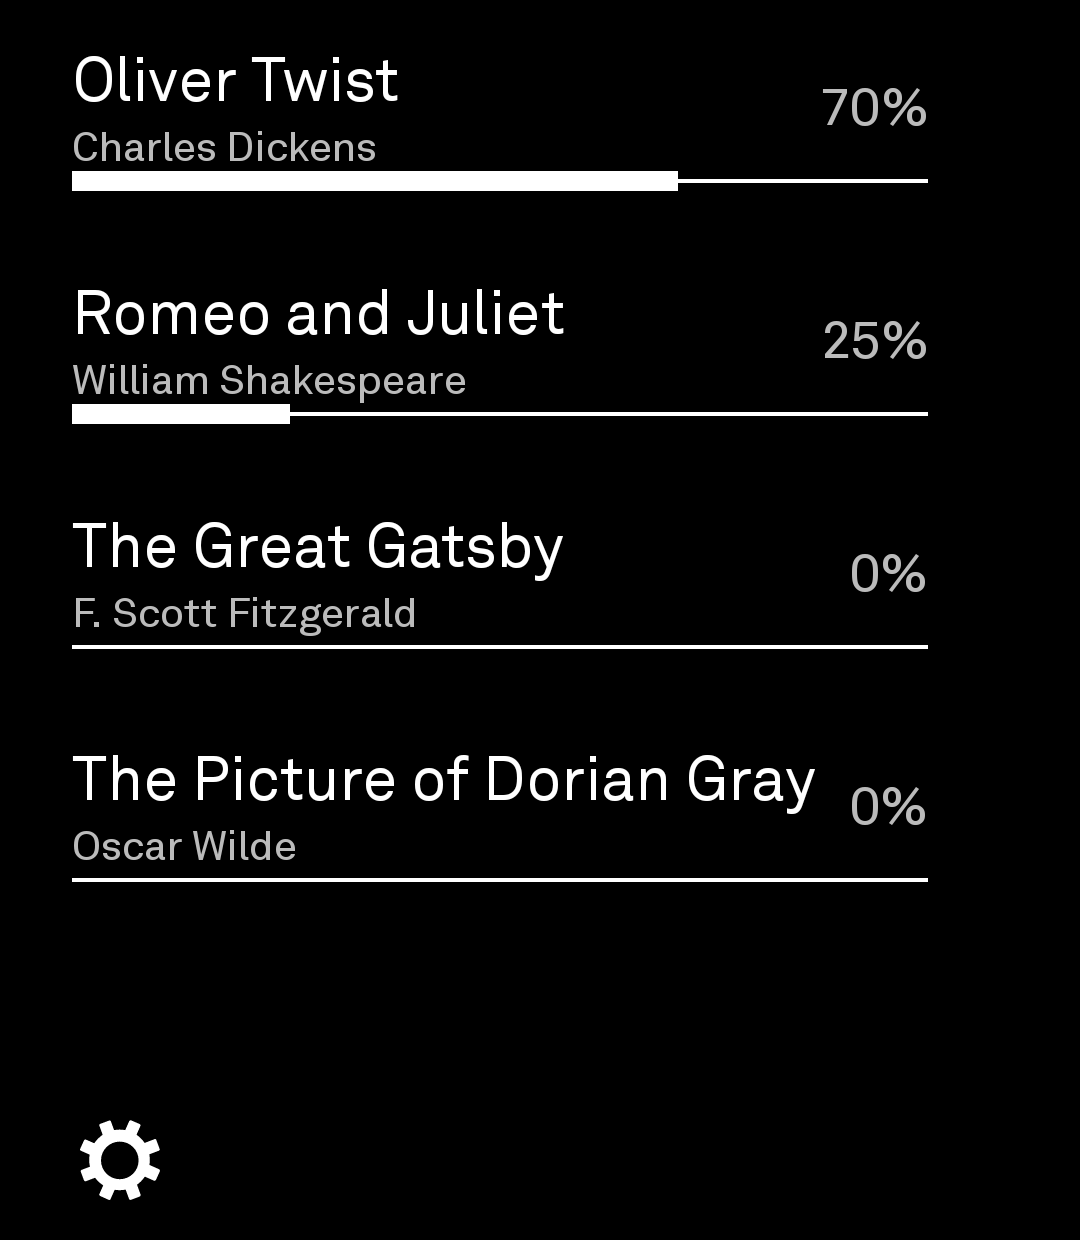
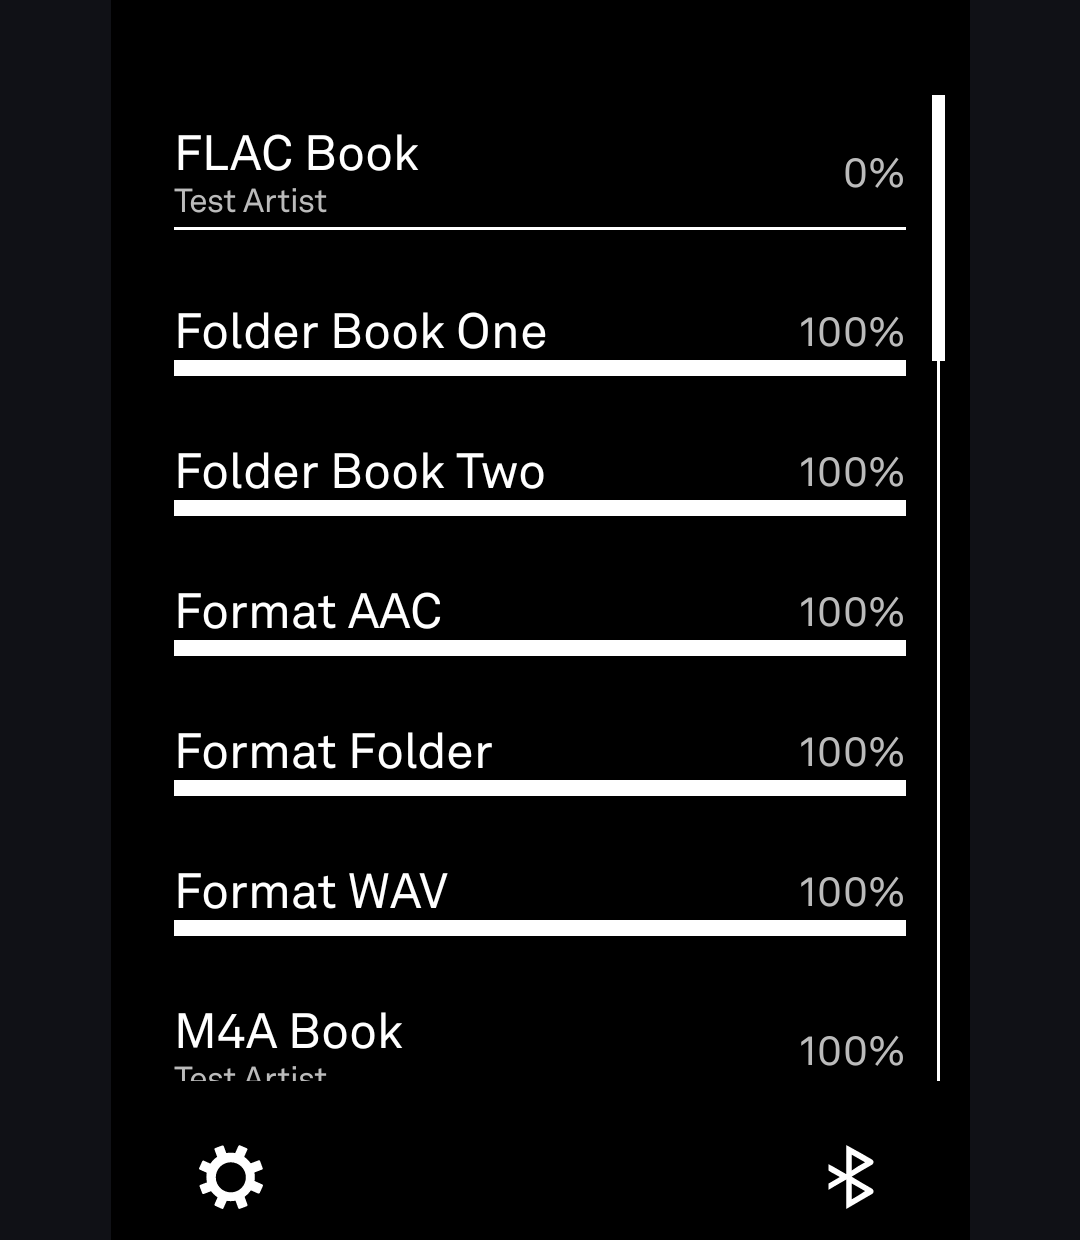
Library top-bar buffer; align settings toggle with its label
The Library reserves the SDK top bar's height (3 grid units) so the first
book row starts level with content on the other screens. The Auto-Play
toggle is top-aligned and nudged onto the label's ink (Akkurat sits high
in its line box) instead of centered between label and caption.

diff --git a/app/src/main/kotlin/com/lightphone/audiobooks/screens/SettingsScreen.kt b/app/src/main/kotlin/com/lightphone/audiobooks/screens/SettingsScreen.kt
@@ -7,6 +7,7 @@ import androidx.compose.foundation.layout.Row
 import androidx.compose.foundation.layout.Spacer
 import androidx.compose.foundation.layout.fillMaxSize
 import androidx.compose.foundation.layout.fillMaxWidth
+import androidx.compose.foundation.layout.offset
 import androidx.compose.foundation.layout.padding
 import androidx.compose.foundation.layout.size
 import androidx.compose.foundation.layout.width
@@ -96,11 +97,19 @@ class SettingsScreen(sealedActivity: SealedLightActivity) :
                             .fillMaxWidth()
                             .lightClickable { viewModel.toggleAutoPlayNext() }
                             .padding(horizontal = 24.dp, vertical = 14.dp),
-                        verticalAlignment = Alignment.CenterVertically,
+                        verticalAlignment = Alignment.Top,
                     ) {
-                        // Toggle sits immediately left of its action label.
+                        // Toggle sits immediately left of its action label,
+                        // top-aligned so it lines up with the main label, not
+                        // centered between the label and the caption.
                         Box(
-                            modifier = Modifier.size(36.dp),
+                            modifier = Modifier
+                                .size(36.dp)
+                                // The Heading line box is taller than its ink
+                                // (Akkurat sits high in the box); nudge the
+                                // toggle up so it centers on the label glyphs,
+                                // like the native switch-on-label alignment.
+                                .offset(y = (-6).dp),
                             contentAlignment = Alignment.Center,
                         ) {
                             LightIcon(

diff --git a/app/src/main/kotlin/com/lightphone/audiobooks/screens/LibraryScreen.kt b/app/src/main/kotlin/com/lightphone/audiobooks/screens/LibraryScreen.kt
@@ -4,8 +4,10 @@ import androidx.compose.foundation.background
 import androidx.compose.foundation.layout.Box
 import androidx.compose.foundation.layout.Column
 import androidx.compose.foundation.layout.Row
+import androidx.compose.foundation.layout.Spacer
 import androidx.compose.foundation.layout.fillMaxSize
 import androidx.compose.foundation.layout.fillMaxWidth
+import androidx.compose.foundation.layout.height
 import androidx.compose.foundation.layout.navigationBarsPadding
 import androidx.compose.foundation.layout.padding
 import androidx.compose.runtime.Composable
@@ -35,6 +37,7 @@ import com.thelightphone.sdk.ui.LightTheme
 import com.thelightphone.sdk.ui.LightThemeController
 import com.thelightphone.sdk.ui.LightThemeTokens
 import com.thelightphone.sdk.ui.lightClickable
+import com.thelightphone.sdk.ui.gridUnitsAsDp
 import kotlinx.coroutines.delay
 import kotlinx.coroutines.flow.MutableStateFlow
 import kotlinx.coroutines.launch
@@ -95,6 +98,9 @@ class LibraryScreen(sealedActivity: SealedLightActivity) :
                         .fillMaxSize()
                         .background(LightThemeTokens.colors.background),
                 ) {
+                    // The Library has no top bar; reserve the SDK top bar's
+                    // height so the first row lines up with other screens.
+                    Spacer(modifier = Modifier.height(3f.gridUnitsAsDp()))
                     Box(modifier = Modifier.weight(1f)) {
                         when {
                             loading && books.isEmpty() -> StatusText("Scanning your library…")
